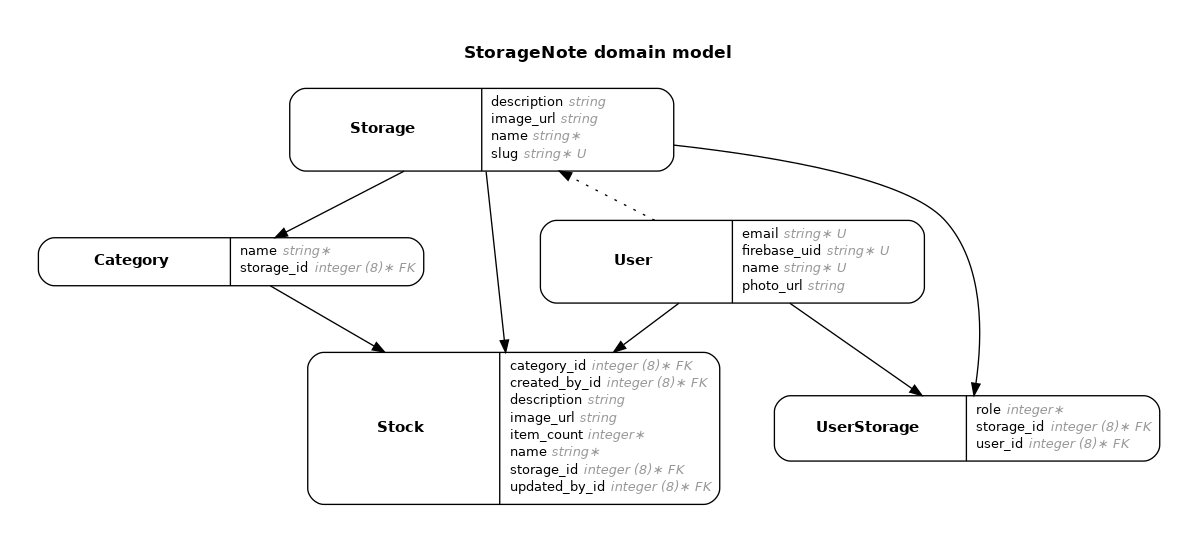
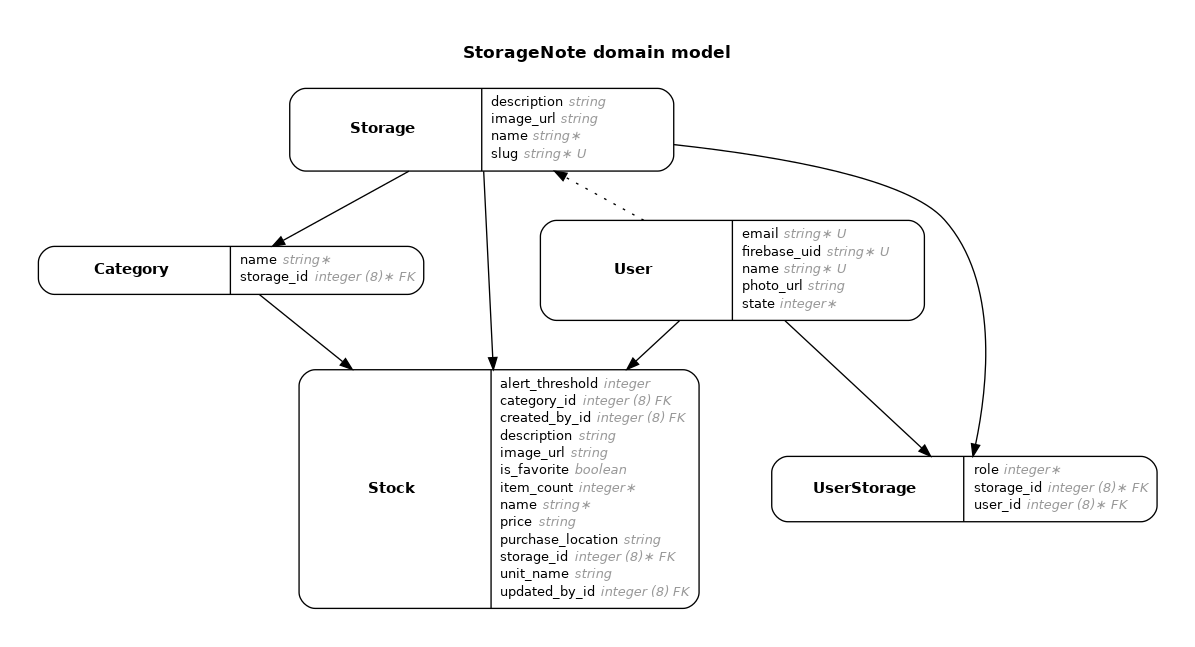
migrate実行

diff --git a/db/schema.rb b/db/schema.rb
@@ -10,7 +10,7 @@
 #
 # It's strongly recommended that you check this file into your version control system.
 
-ActiveRecord::Schema[7.0].define(version: 2023_07_27_071711) do
+ActiveRecord::Schema[7.0].define(version: 2023_07_27_075809) do
   # These are extensions that must be enabled in order to support this database
   enable_extension "plpgsql"
 
@@ -28,12 +28,17 @@ ActiveRecord::Schema[7.0].define(version: 2023_07_27_071711) do
     t.string "name", null: false
     t.string "description"
     t.string "image_url"
-    t.bigint "category_id", null: false
+    t.bigint "category_id"
     t.integer "item_count", null: false
-    t.bigint "updated_by_id", null: false
-    t.bigint "created_by_id", null: false
+    t.bigint "updated_by_id"
+    t.bigint "created_by_id"
     t.datetime "created_at", null: false
     t.datetime "updated_at", null: false
+    t.string "purchase_location"
+    t.string "price"
+    t.string "unit_name"
+    t.integer "alert_threshold"
+    t.boolean "is_favorite"
     t.index ["category_id"], name: "index_stocks_on_category_id"
     t.index ["created_by_id"], name: "index_stocks_on_created_by_id"
     t.index ["name"], name: "index_stocks_on_name"
@@ -66,6 +71,7 @@ ActiveRecord::Schema[7.0].define(version: 2023_07_27_071711) do
     t.string "name", null: false
     t.string "email", null: false
     t.string "photo_url"
+    t.integer "state", default: 0, null: false
     t.datetime "created_at", null: false
     t.datetime "updated_at", null: false
     t.index ["email"], name: "index_users_on_email", unique: true

diff --git a/app/models/stock.rb b/app/models/stock.rb
@@ -2,17 +2,22 @@
 #
 # Table name: stocks
 #
-#  id            :bigint           not null, primary key
-#  description   :string
-#  image_url     :string
-#  item_count    :integer          not null
-#  name          :string           not null
-#  created_at    :datetime         not null
-#  updated_at    :datetime         not null
-#  category_id   :bigint           not null
-#  created_by_id :bigint           not null
-#  storage_id    :bigint           not null
-#  updated_by_id :bigint           not null
+#  id                :bigint           not null, primary key
+#  alert_threshold   :integer
+#  description       :string
+#  image_url         :string
+#  is_favorite       :boolean
+#  item_count        :integer          not null
+#  name              :string           not null
+#  price             :string
+#  purchase_location :string
+#  unit_name         :string
+#  created_at        :datetime         not null
+#  updated_at        :datetime         not null
+#  category_id       :bigint
+#  created_by_id     :bigint
+#  storage_id        :bigint           not null
+#  updated_by_id     :bigint
 #
 # Indexes
 #

diff --git a/spec/factories/stocks.rb b/spec/factories/stocks.rb
@@ -2,17 +2,22 @@
 #
 # Table name: stocks
 #
-#  id            :bigint           not null, primary key
-#  description   :string
-#  image_url     :string
-#  item_count    :integer          not null
-#  name          :string           not null
-#  created_at    :datetime         not null
-#  updated_at    :datetime         not null
-#  category_id   :bigint           not null
-#  created_by_id :bigint           not null
-#  storage_id    :bigint           not null
-#  updated_by_id :bigint           not null
+#  id                :bigint           not null, primary key
+#  alert_threshold   :integer
+#  description       :string
+#  image_url         :string
+#  is_favorite       :boolean
+#  item_count        :integer          not null
+#  name              :string           not null
+#  price             :string
+#  purchase_location :string
+#  unit_name         :string
+#  created_at        :datetime         not null
+#  updated_at        :datetime         not null
+#  category_id       :bigint
+#  created_by_id     :bigint
+#  storage_id        :bigint           not null
+#  updated_by_id     :bigint
 #
 # Indexes
 #

diff --git a/spec/models/stock_spec.rb b/spec/models/stock_spec.rb
@@ -2,17 +2,22 @@
 #
 # Table name: stocks
 #
-#  id            :bigint           not null, primary key
-#  description   :string
-#  image_url     :string
-#  item_count    :integer          not null
-#  name          :string           not null
-#  created_at    :datetime         not null
-#  updated_at    :datetime         not null
-#  category_id   :bigint           not null
-#  created_by_id :bigint           not null
-#  storage_id    :bigint           not null
-#  updated_by_id :bigint           not null
+#  id                :bigint           not null, primary key
+#  alert_threshold   :integer
+#  description       :string
+#  image_url         :string
+#  is_favorite       :boolean
+#  item_count        :integer          not null
+#  name              :string           not null
+#  price             :string
+#  purchase_location :string
+#  unit_name         :string
+#  created_at        :datetime         not null
+#  updated_at        :datetime         not null
+#  category_id       :bigint
+#  created_by_id     :bigint
+#  storage_id        :bigint           not null
+#  updated_by_id     :bigint
 #
 # Indexes
 #

diff --git a/app/models/user.rb b/app/models/user.rb
@@ -7,6 +7,7 @@
 #  firebase_uid :string           not null
 #  name         :string           not null
 #  photo_url    :string
+#  state        :integer          default("active"), not null
 #  created_at   :datetime         not null
 #  updated_at   :datetime         not null
 #

diff --git a/spec/factories/users.rb b/spec/factories/users.rb
@@ -7,6 +7,7 @@
 #  firebase_uid :string           not null
 #  name         :string           not null
 #  photo_url    :string
+#  state        :integer          default("active"), not null
 #  created_at   :datetime         not null
 #  updated_at   :datetime         not null
 #

diff --git a/spec/models/user_spec.rb b/spec/models/user_spec.rb
@@ -7,6 +7,7 @@
 #  firebase_uid :string           not null
 #  name         :string           not null
 #  photo_url    :string
+#  state        :integer          default("active"), not null
 #  created_at   :datetime         not null
 #  updated_at   :datetime         not null
 #

diff --git a/config/routes.rb b/config/routes.rb
@@ -5,6 +5,7 @@ Rails.application.routes.draw do
 
     resources :storages do
       resources :categories, only: %i[index create update destroy]
+      resources :stocks
     end
   end
 end
